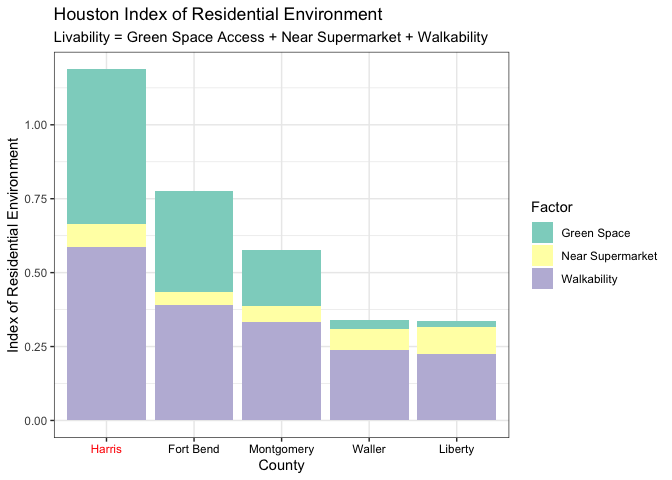
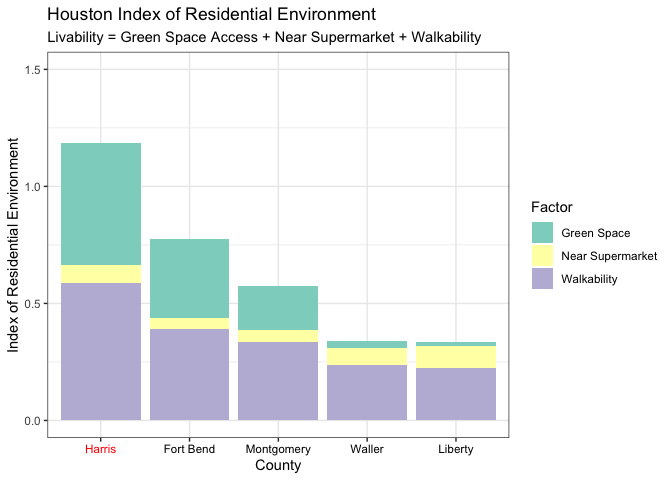
standardized Houston axis scales

diff --git a/2. Graph Creation/Houston/Texas-Final-Graphics.md b/2. Graph Creation/Houston/Texas-Final-Graphics.md
@@ -499,7 +499,8 @@ ggplot(df2, aes(x = df2$county_code, y = df2$count, fill = df2$Factor))+
   scale_fill_brewer(palette="Set3") +
   theme_bw()+
   labs(title = "Houston Index of Residential Environment", subtitle = "Livability = Green Space Access + Near Supermarket + Walkability", y = "Index of Residential Environment", x = "County", fill = 'Factor')+
-  theme(axis.text.x = element_text(color = text_color))
+  theme(axis.text.x = element_text(color = text_color)) +
+  scale_y_continuous(limits=c(0,1.5))
 ```
 
     ## Warning: Vectorized input to `element_text()` is not officially supported.
